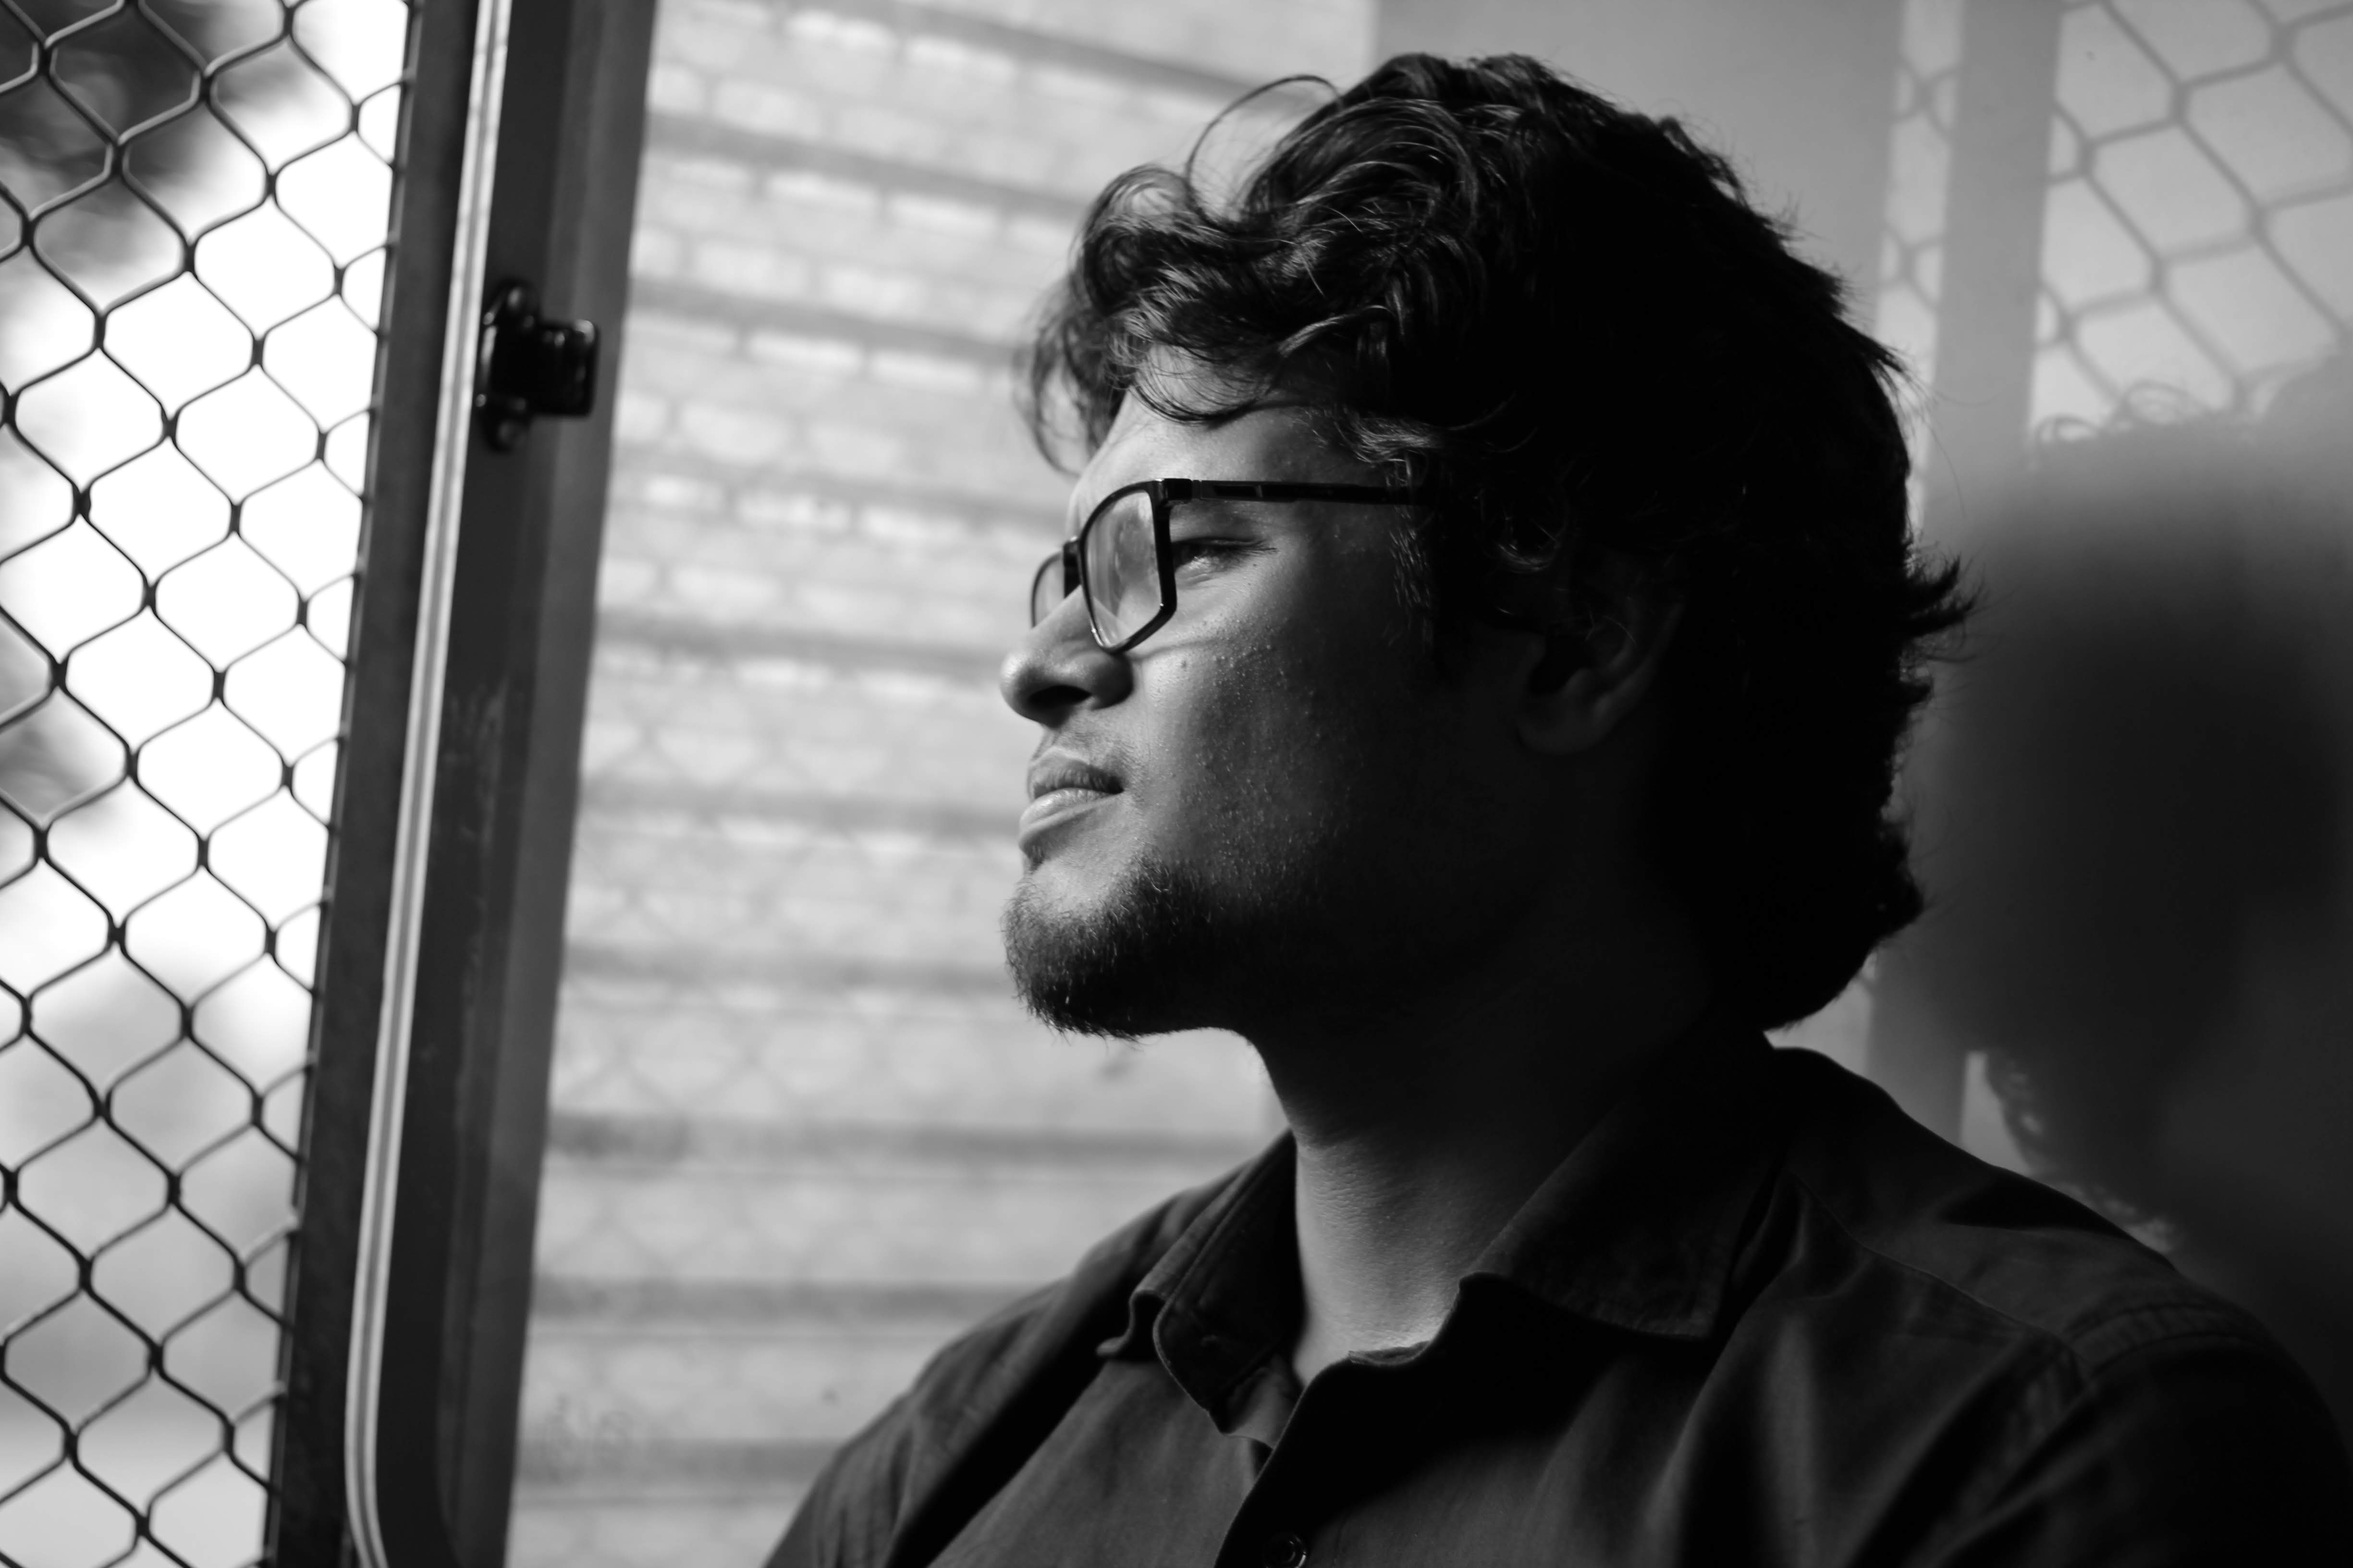
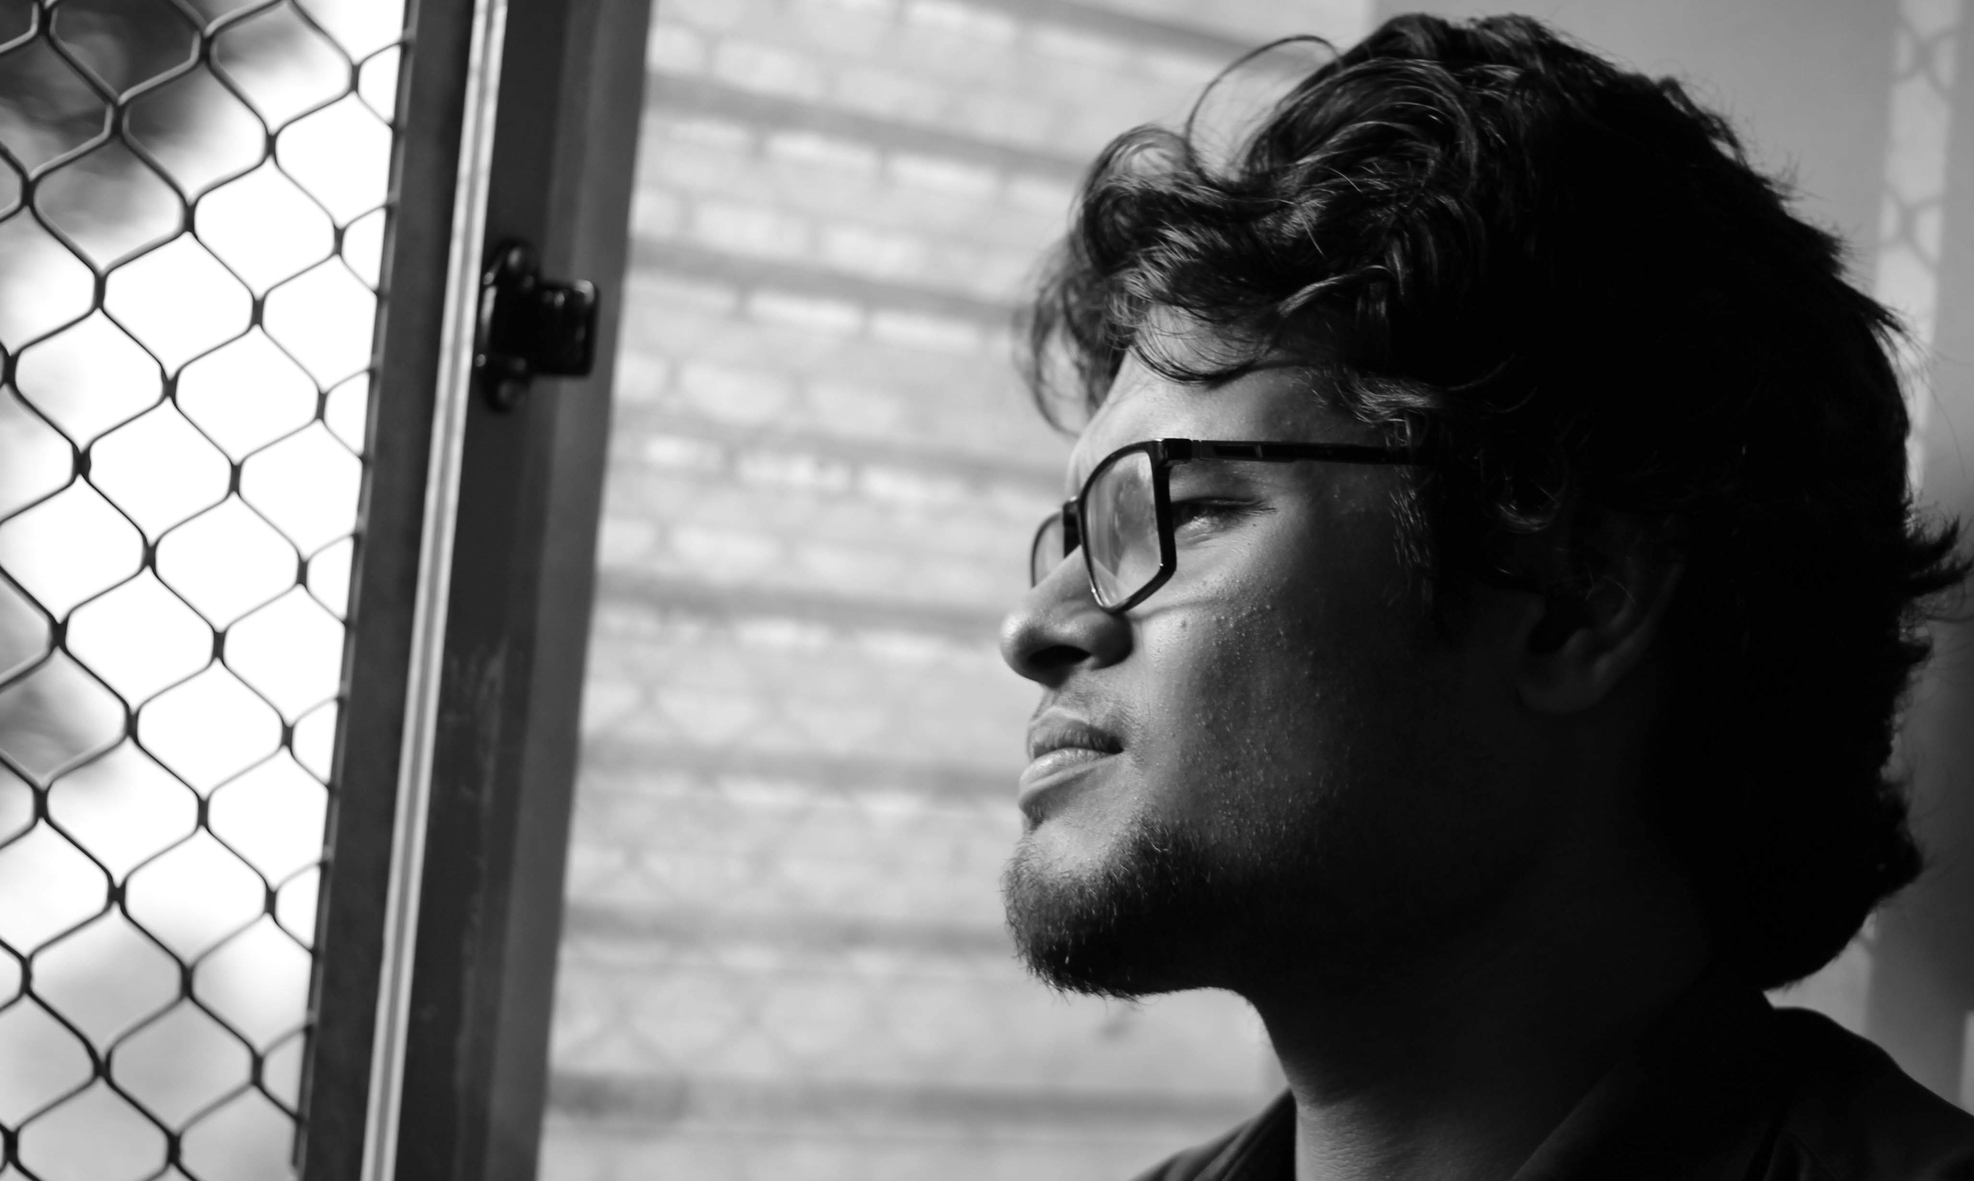
updates

diff --git a/assets/css/style.css b/assets/css/style.css
@@ -19,7 +19,7 @@ body {
 body::before {
   content: "";
   position: fixed;
-  background: #040404 url("../img/pp2.jpeg") top right no-repeat;
+  background: #040404 url("../img/pic2.jpg") top right no-repeat;
   background-size: cover;
   left: 0;
   right: 0;
